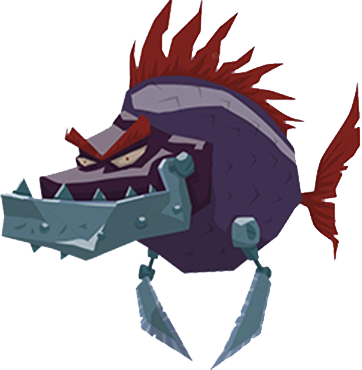
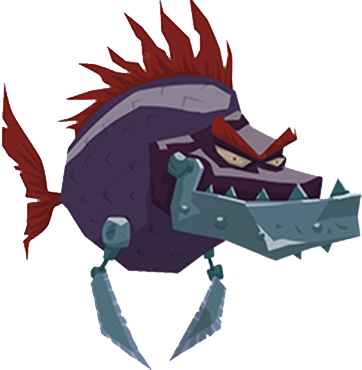
ca

diff --git a/Desktop/Games/Ca/Boss.py b/Desktop/Games/Ca/Boss.py
@@ -39,7 +39,7 @@ class Boss(fish):
 	old_time_S2 = 0
 	old_time_CD_ATK = 0
 	stay_time_s1 = 0
-	stay_time_s2 = 1500
+	stay_time_s2 = 5000
 	skill_CD = 5000
 	wait = 0
 	done = True
@@ -84,22 +84,23 @@ class Boss(fish):
 			self.phase += 1
 			self.reborn()
 
-	def Skill2(self, Game, bg):
+	def Skill2(self):
 		curr_time = pygame.time.get_ticks()
 		if not self.S2_ATK:
-			self.angle = -30
+			self.angle = 0
 			self.old_time_S2 = curr_time
 			self.S2_ATK = True
 			self.stay = True
 			self.laser = Laser((self.pos[0], self.pos[1] + self.h/2), self.angle)
 			self.Laser.add(self.laser)
-		elif self.old_time_S2 - curr_time < self.stay_time_s2:
-			self.angle += 1
+		elif -self.old_time_S2 + curr_time < self.stay_time_s2:
+			self.angle += 3.5
 			self.Laser.update((self.pos[0], self.pos[1] + self.h/2), self.angle)
-			pygame.draw.circle(Game.screen, RED, self.laser.pos, 3)
 		else:
 			self.S2_ATK = False
 			self.stay = False
+			for laser in self.Laser:
+				laser.kill()
 
 
 	def Skill1(self, Game, bg, rot):
@@ -127,9 +128,10 @@ class Boss(fish):
 				self.Bullet.add(bullet((vx1, vy1), Game, bg, "bosss1_animation\\bullet1.png",vx2, vy2))
 				angle += alpha
 	def phase1(self, Game, bg):
-		# self.Skill1(Game, bg, 0)
-
-		self.Skill2(Game, bg)
+		atkS = randint(0, 3)
+		if atkS <= 2 and not self.S2_ATK:
+			self.Skill1(Game, bg, 0)
+		else: self.Skill2()
 	
 	def phase2(self, Game, bg):
 		if self.done == True:

diff --git a/Desktop/Games/Ca/entity.py b/Desktop/Games/Ca/entity.py
@@ -124,12 +124,17 @@ class fish(pygame.sprite.Sprite):
 			self.vy = randint(self.minv, self.maxv)
 
 	def name_detect(self):
-		if self.mob == 100 or self.fire:
+		if  self.fire:
 			return
 		if self.direction == "LEFT":
 			self.name = "ca" + str(self.mob) 
 		else:
 			self.name = "cas" + str(self.mob) 
+		if self.mob == 100:
+			self.name = "boss\\" + self.name + ".png"
+			if self.direction == "RIGHT":
+				print(self.name)
+			return
 		self.name = "mob" + str(self.mob) + "\\" + self.name + str(self.cot % self.number_of_animation + 1)
 		self.cot += 1
 		self.name = self.name +".png"
